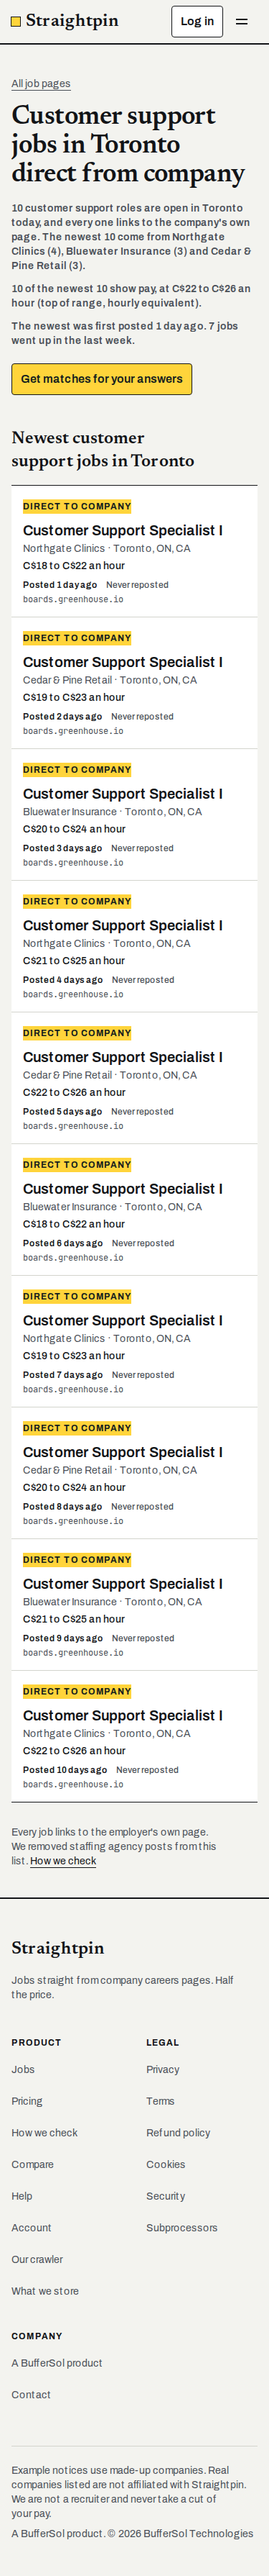
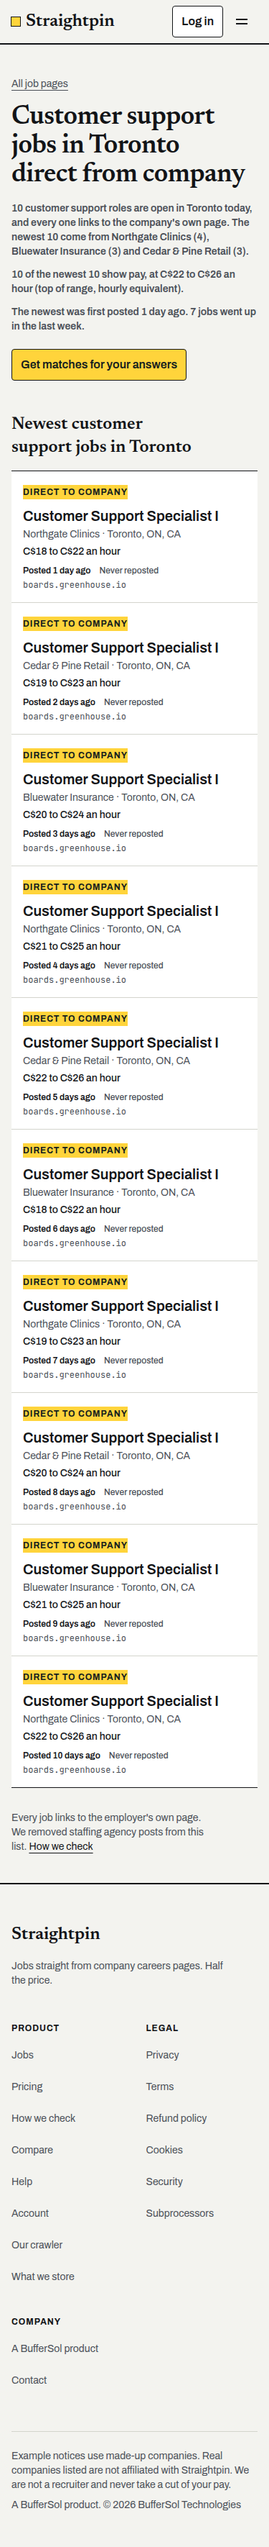
claude-task: #45 (#46)

Changed region(s): [[0.0293, 0.0, 0.9387, 0.9944], [0.2053, 0.8079, 0.264, 0.839]]

diff --git a/tests/e2e/qa2/redesign.spec.ts b/tests/e2e/qa2/redesign.spec.ts
@@ -1,0 +1,114 @@
+import { expect, test, type Page } from "@playwright/test";
+import { firstJobId, signInViaUi } from "../qa/helpers";
+
+// Post-redesign regression pass: light only, newsprint/ink/yellow palette, Newsreader + Archivo, square surfaces.
+const PUBLIC = ["/", "/pricing", "/compare/directroles", "/how-we-check", "/docs", "/legal/privacy", "/legal/terms", "/legal/refunds", "/legal/cookies", "/bot", "/about/data", "/sign-in", "/quiz", "/jobs", "/does-not-exist", "/paywall", "/problem", "/matches?field=support&country=US&remote=any&payFloor=0&level=any&schedule=any"];
+const SIGNED = ["/app", "/app/billing", "/app/settings/profile", "/app/settings/security", "/account", "/saved", "/alerts", "/alerts/manage"];
+const VIEWPORTS = [{ width: 375, height: 812 }, { width: 1440, height: 900 }];
+
+/** Runs in the page: returns human readable problems for the current screen. */
+async function styleAudit(page: Page) {
+  return page.evaluate(() => {
+    const out: string[] = [];
+    const parse = (c: string) => { const m = c.match(/rgba?\(([^)]+)\)/); if (!m) return null; const [r, g, b, a = 1] = m[1]!.split(/[ ,/]+/).filter(Boolean).map(Number); return { r: r!, g: g!, b: b!, a }; };
+    const hue = (c: { r: number; g: number; b: number }) => { const r = c.r / 255, g = c.g / 255, b = c.b / 255; const mx = Math.max(r, g, b), mn = Math.min(r, g, b); const d = mx - mn; if (!d) return { h: 0, s: 0, l: (mx + mn) / 2 }; const l = (mx + mn) / 2; const s = d / (1 - Math.abs(2 * l - 1)); let h = mx === r ? ((g - b) / d) % 6 : mx === g ? (b - r) / d + 2 : (r - g) / d + 4; h = (h * 60 + 360) % 360; return { h, s, l }; };
+    const lum = (c: { r: number; g: number; b: number }) => { const f = (v: number) => { v /= 255; return v <= 0.03928 ? v / 12.92 : ((v + 0.055) / 1.055) ** 2.4; }; return 0.2126 * f(c.r) + 0.7152 * f(c.g) + 0.0722 * f(c.b); };
+    const bgOf = (el: Element) => { for (let e: Element | null = el; e; e = e.parentElement) { const cs = getComputedStyle(e); if (cs.backgroundImage !== "none") return null; const c = parse(cs.backgroundColor); if (c && c.a > 0.95) return c; } return { r: 243, g: 243, b: 239, a: 1 }; };
+    const where = (el: Element) => `${el.tagName.toLowerCase()}${el.id ? "#" + el.id : ""}.${String(el.getAttribute("class") ?? "").split(" ").slice(0, 2).join(".")} "${(el.textContent || "").trim().slice(0, 24)}"`;
+    const html = getComputedStyle(document.documentElement);
+    if (html.colorScheme.includes("dark")) out.push("color-scheme includes dark");
+    if (document.documentElement.hasAttribute("data-theme") || document.documentElement.classList.contains("dark")) out.push("dark theme attribute on <html>");
+    const seen = new Set<string>();
+    for (const el of Array.from(document.querySelectorAll<HTMLElement>("body *"))) {
+      const cs = getComputedStyle(el);
+      if (cs.display === "none" || cs.visibility === "hidden") continue;
+      const r = el.getBoundingClientRect();
+      const ff = cs.fontFamily.toLowerCase();
+      if (/bricolage|public sans|caveat/.test(ff)) out.push(`old font ${ff.slice(0, 40)}: ${where(el)}`);
+      if (/gradient/.test(cs.backgroundImage)) out.push(`gradient: ${where(el)}`);
+      for (const prop of ["color", "backgroundColor", "borderTopColor", "outlineColor"] as const) {
+        const c = parse(cs[prop]); if (!c || c.a < 0.2) continue;
+        if (prop === "borderTopColor" && cs.borderTopWidth === "0px") continue;
+        if (prop === "outlineColor" && cs.outlineStyle === "none") continue;
+        const k = hue(c);
+        if (k.s > 0.25 && k.l > 0.15 && k.l < 0.95) {
+          const name = k.h >= 230 && k.h < 300 ? "indigo/purple" : k.h < 25 || k.h >= 345 ? (k.l > 0.35 && k.s < 0.8 && prop !== "color" ? "clay/red" : "") : "";
+          if (name && !/danger|error/.test(String(el.className))) { const key = `${prop} ${name} ${cs[prop]}`; if (!seen.has(key)) { seen.add(key); out.push(`${prop} ${name} ${cs[prop]}: ${where(el)}`); } }
+        }
+        if (prop === "backgroundColor" && c.r >= 244 && c.r <= 248 && c.g >= 238 && c.g <= 244 && c.b >= 228 && c.b <= 236) out.push(`cream background ${cs[prop]}: ${where(el)}`);
+      }
+      // pills and soft rounded surfaces (square 0 / 4px system)
+      const rad = parseFloat(cs.borderTopLeftRadius);
+      if (rad > 4.5 && r.width > 16 && r.height > 16 && !(rad >= Math.min(r.width, r.height) / 2 - 0.5 && Math.abs(r.width - r.height) < 2) && !el.closest("svg")) out.push(`radius ${rad}px: ${where(el)}`);
+      // text contrast
+      const own = Array.from(el.childNodes).some((n) => n.nodeType === 3 && (n.textContent || "").trim().length > 1);
+      if (own && r.width > 0 && r.height > 0 && !el.closest("[aria-hidden=true], .sr-only") && cs.opacity === "1") {
+        const fg = parse(cs.color), bg = bgOf(el);
+        if (fg && bg && fg.a > 0.95) {
+          const L1 = lum(fg), L2 = lum(bg); const ratio = (Math.max(L1, L2) + 0.05) / (Math.min(L1, L2) + 0.05);
+          const large = parseFloat(cs.fontSize) >= 24 || (parseFloat(cs.fontSize) >= 18.66 && parseInt(cs.fontWeight) >= 700);
+          const dis = (el as HTMLButtonElement).disabled || el.closest("[disabled], [aria-disabled=true]");
+          if (!dis && ratio < (large ? 3 : 4.5)) out.push(`contrast ${ratio.toFixed(2)}: ${where(el)}`);
+        }
+      }
+      // cut off text (not an intentional truncate)
+      if (cs.overflow !== "visible" && cs.textOverflow !== "ellipsis" && !el.matches("input, textarea, select, svg, [class*=sr-only]") && el.scrollWidth > el.clientWidth + 2 && cs.overflowX === "hidden" && (el.textContent || "").trim()) out.push(`text clipped: ${where(el)}`);
+      // overlapping siblings with text (rough)
+    }
+    return [...new Set(out)];
+  });
+}
+
+for (const vp of VIEWPORTS) {
+  test(`redesign audit, signed out, ${vp.width}px: palette, fonts, radius, contrast, no dark mode, no clipped text`, async ({ page, request }) => {
+    await page.setViewportSize(vp);
+    await request.post("/api/dev/seed-jobs");
+    const problems: string[] = [];
+    for (const p of PUBLIC) {
+      await page.goto(p); await page.waitForLoadState("load"); await page.waitForTimeout(300);
+      for (const x of await styleAudit(page)) problems.push(`${p}: ${x}`);
+    }
+    expect(problems).toEqual([]);
+  });
+
+  test(`redesign audit, signed in, ${vp.width}px`, async ({ page, request }) => {
+    await page.setViewportSize(vp);
+    await signInViaUi(page, request);
+    await firstJobId(page, request);
+    const problems: string[] = [];
+    for (const p of SIGNED) {
+      await page.goto(p); await page.waitForLoadState("load"); await page.waitForTimeout(300);
+      for (const x of await styleAudit(page)) problems.push(`${p}: ${x}`);
+    }
+    expect(problems).toEqual([]);
+  });
+}
+
+test("a dark colour scheme preference changes nothing (light only)", async ({ browser }) => {
+  const mk = async (scheme: "dark" | "light") => { const ctx = await browser.newContext({ colorScheme: scheme }); const pg = await ctx.newPage(); await pg.goto("/"); const v = await pg.evaluate(() => [getComputedStyle(document.body).backgroundColor, getComputedStyle(document.body).color, getComputedStyle(document.documentElement).colorScheme, document.querySelector('meta[name="color-scheme"]')?.getAttribute("content") ?? "", Array.from(document.querySelectorAll('meta[name="theme-color"]')).map((m) => m.getAttribute("content") + "|" + (m.getAttribute("media") ?? "")).join(",")]); await ctx.close(); return v; };
+  expect(await mk("dark")).toEqual(await mk("light"));
+});
+
+test("keyboard: every focusable element shows a visible focus ring (public + app)", async ({ page, request }) => {
+  await page.setViewportSize({ width: 1440, height: 900 });
+  const bad: string[] = [];
+  for (const p of ["/", "/pricing", "/sign-in", "/quiz"]) {
+    await page.goto(p); await page.waitForLoadState("load");
+    for (let i = 0; i < 40; i++) {
+      await page.keyboard.press("Tab");
+      const r = await page.evaluate(() => { const e = document.activeElement as HTMLElement; if (!e || e === document.body) return null; const cs = getComputedStyle(e); const rect = e.getBoundingClientRect(); return { n: `${e.tagName} ${(e.textContent || e.getAttribute("aria-label") || e.getAttribute("name") || "").trim().slice(0, 30)}`, outline: cs.outlineStyle !== "none" && parseFloat(cs.outlineWidth) >= 2, shadow: cs.boxShadow !== "none", vis: rect.width > 0 && rect.height > 0 }; });
+      if (r && r.vis && !r.outline && !r.shadow) bad.push(`${p}: ${r.n}`);
+    }
+  }
+  expect([...new Set(bad)]).toEqual([]);
+  void request;
+});
+
+test("error pages, OG image, icons and legal pages carry the new brand", async ({ request, page }) => {
+  const og = await request.get("/opengraph-image"); expect(og.status()).toBe(200); expect(og.headers()["content-type"]).toContain("image/png");
+  for (const u of ["/icon", "/apple-icon", "/twitter-image"]) expect((await request.get(u)).status(), u).toBe(200);
+  const r = await page.goto("/nope-nope"); expect(r?.status()).toBe(404);
+  await expect(page.getByRole("link", { name: /home|jobs|straightpin/i }).first()).toBeVisible();
+  const css = await (await request.get((await page.locator('link[rel=stylesheet]').first().getAttribute("href"))!)).text();
+  expect(css).not.toMatch(/prefers-color-scheme:\s*dark|Bricolage|Public Sans|Caveat|#b8381c|#f6f1e9/i);
+});

diff --git a/tests/e2e/qa2/interactions.spec.ts b/tests/e2e/qa2/interactions.spec.ts
@@ -1,0 +1,76 @@
+import { expect, test } from "@playwright/test";
+import { product } from "../../../src/config/product";
+import { firstJobId, signInViaUi } from "../qa/helpers";
+
+const allPrices = product.plans.flatMap((p) => p.prices.map((x) => x.usd / 100));
+const fmt = (n: number) => `$${Number.isInteger(n) ? n : n.toFixed(2)}`;
+
+test("pricing and landing print only prices that exist in product.ts (or a dated competitor price from the brief)", async ({ page }) => {
+  for (const path of ["/", "/pricing"]) {
+    await page.goto(path);
+    const text = await page.locator("main").innerText();
+    const shown = [...text.matchAll(/\$(\d{1,3}(?:,\d{3})*(?:\.\d{2})?)/g)].map((m) => Number(m[1]!.replace(",", "")));
+    // pay in the labelled sample listings ("$19 to $24 an hour") is not a price of ours
+    const pay = new Set([...text.matchAll(/C?\$(\d+(?:\.\d+)?)(?: to C?\$(\d+(?:\.\d+)?))? (?:an|per) hour/g)].flatMap((m) => [Number(m[1]), Number(m[2])]));
+    const stray = shown.filter((n) => !allPrices.includes(n) && !pay.has(n) && ![21, 10.5, 47].includes(n) && n !== 0);
+    expect(stray, `${path} shows a price that is not in product.ts or the brief`).toEqual([]);
+  }
+  await page.goto("/pricing");
+  const text = await page.locator("main").innerText();
+  for (const p of product.plans.filter((x) => x.onSale && x.prices.length)) {
+    expect(text, `/pricing lists ${p.name}`).toContain(p.name);
+    expect(text, `/pricing shows ${p.name} price`).toContain(fmt(p.prices[0]!.usd / 100));
+  }
+});
+
+test("no invented proof: no star ratings, user counts, logo walls or testimonials on public pages", async ({ page }) => {
+  for (const path of ["/", "/pricing", "/compare/directroles", "/how-we-check"]) {
+    await page.goto(path);
+    const text = (await page.locator("main").innerText()).toLowerCase();
+    expect(text, path).not.toMatch(/★|rated \d|trusted by|\d[\d,]* (happy )?(users|customers|members|job seekers)|as seen (on|in)|testimonial/);
+  }
+});
+
+for (const w of [320, 768, 1024]) {
+  test(`no horizontal scroll at ${w}px on the main screens`, async ({ page, request }) => {
+    await page.setViewportSize({ width: w, height: 800 });
+    await request.post("/api/dev/seed-jobs");
+    const bad: string[] = [];
+    for (const p of ["/", "/pricing", "/compare/directroles", "/how-we-check", "/jobs", "/quiz", "/sign-in", "/docs", "/legal/terms", "/matches?field=support&country=US&remote=any&payFloor=0&level=any&schedule=any"]) {
+      await page.goto(p);
+      await page.waitForLoadState("load");
+      if (await page.evaluate(() => document.documentElement.scrollWidth > window.innerWidth)) bad.push(p);
+    }
+    expect(bad).toEqual([]);
+  });
+}
+
+test("sign out lands on a public page and /app asks to sign in again; billing return pages stay calm", async ({ page, request }) => {
+  await signInViaUi(page, request);
+  await page.goto("/app");
+  await page.getByRole("button", { name: /sign out/i }).first().click();
+  await page.waitForURL((u) => !u.pathname.startsWith("/app"));
+  await page.goto("/app");
+  await expect(page).toHaveURL(/sign-in/);
+});
+
+test("billing return pages and paywall never 500", async ({ page, request }) => {
+  await signInViaUi(page, request);
+  for (const p of ["/app/billing?checkout=success", "/app/billing?checkout=cancelled", "/paywall", "/paywall?reason=opens"]) {
+    const r = await page.goto(p);
+    expect(r?.status(), p).toBeLessThan(500);
+  }
+});
+
+test("Save and alert buttons do something observable and break no CSP rule", async ({ page, request }) => {
+  const violations: string[] = [];
+  page.on("console", (m) => { if (/Content Security Policy/i.test(m.text())) violations.push(m.text()); });
+  await signInViaUi(page, request);
+  const id = await firstJobId(page, request);
+  await page.goto(`/job/${id}`);
+  await page.getByRole("button", { name: /^save/i }).first().click();
+  await expect(page.getByRole("button", { name: /saved|unsave|remove/i }).first()).toBeVisible();
+  await page.goto("/saved");
+  await expect(page.locator(`a[href="/job/${id}"]`).first()).toBeVisible();
+  expect(violations).toEqual([]);
+});

diff --git a/src/lib/mail/templates.ts b/src/lib/mail/templates.ts
@@ -6,10 +6,10 @@ const esc = (s: string) => s.replace(/[&<>"']/g, (c) => ({ "&": "&amp;", "<": "&
 
 function layout(title: string, bodyHtml: string, footer = `${product.fullName} · ${product.company}`) {
   return `<!doctype html><html lang="en"><head><meta charset="utf-8"><meta name="viewport" content="width=device-width"><title>${esc(title)}</title></head>
-<body style="margin:0;padding:24px;background:#f7f7f7;font-family:ui-sans-serif,system-ui,sans-serif;color:#181818">
-<table role="presentation" width="100%" cellpadding="0" cellspacing="0" style="max-width:520px;margin:0 auto;background:#ffffff;border:1px solid #e2e2e2;border-radius:8px">
+<body style="margin:0;padding:24px;background:#F3F3EF;font-family:ui-sans-serif,system-ui,sans-serif;color:#121417">
+<table role="presentation" width="100%" cellpadding="0" cellspacing="0" style="max-width:520px;margin:0 auto;background:#ffffff;border:1px solid #D3D4CD;border-top:2px solid #121417;border-radius:0">
 <tr><td style="padding:32px">
-<p style="margin:0 0 24px;font-size:14px;font-weight:600">${esc(product.name)}</p>
+<p style="margin:0 0 24px;font-family:Georgia,serif;font-size:18px;font-weight:700">${esc(product.name)}</p>
 ${bodyHtml}
 </td></tr></table>
 <p style="max-width:520px;margin:16px auto 0;font-size:12px;color:#767676">${esc(footer)}</p>
@@ -17,7 +17,7 @@ ${bodyHtml}
 }
 
 const button = (href: string, label: string) =>
-  `<p style="margin:24px 0"><a href="${esc(href)}" style="display:inline-block;padding:12px 16px;background:#181818;color:#ffffff;border-radius:6px;text-decoration:none;font-weight:600">${esc(label)}</a></p>`;
+  `<p style="margin:24px 0"><a href="${esc(href)}" style="display:inline-block;padding:12px 16px;background:#121417;color:#ffffff;border-radius:4px;text-decoration:none;font-weight:600">${esc(label)}</a></p>`;
 
 export function magicLinkEmail(url: string) {
   // Not "Sign in to <name>": that exact subject never reached the inbox in testing (any other subject did).
@@ -80,7 +80,7 @@ export function digestEmail(opts: { kind: "digest" | "alerts"; total: number; jo
     `Unsubscribe in one click: ${opts.unsubscribeUrl}`,
   ].filter((l, i, a) => l !== "" || a[i - 1] !== "").join("\n");
   const items = opts.jobs
-    .map((j) => `<li style="margin:0 0 16px"><a href="${esc(j.url)}" style="font-weight:600;color:#181818">${esc(j.title)}</a><br><span style="font-size:14px;color:#404040">${esc(j.company)} · ${esc(j.place)}</span><br><span style="font-size:13px;color:#767676">${esc(j.line)}</span></li>`)
+    .map((j) => `<li style="margin:0 0 16px"><a href="${esc(j.url)}" style="font-weight:600;color:#121417">${esc(j.title)}</a><br><span style="font-size:14px;color:#404040">${esc(j.company)} · ${esc(j.place)}</span><br><span style="font-size:13px;color:#767676">${esc(j.line)}</span></li>`)
     .join("");
   const html = layout(
     subject,
@@ -100,7 +100,7 @@ export function refundEmail(opts: { amountText: string; planName: string }) {
   const text = `We refunded ${opts.amountText} for your ${opts.planName} plan and turned the plan off. Refunds usually reach your card in 5 to 10 business days.\n\nYour free account stays open. Questions: ${product.supportEmail}`;
   const html = layout(subject, `<h1 style="margin:0 0 8px;font-size:20px">Refund issued</h1>
 <p style="margin:0 0 12px;font-size:14px;line-height:20px;color:#404040">We refunded ${esc(opts.amountText)} for your ${esc(opts.planName)} plan and turned the plan off. Refunds usually reach your card in 5 to 10 business days.</p>
-<p style="margin:0;font-size:14px;line-height:20px;color:#404040">Your free account stays open. Questions: <a href="mailto:${esc(product.supportEmail)}" style="color:#181818">${esc(product.supportEmail)}</a></p>`);
+<p style="margin:0;font-size:14px;line-height:20px;color:#404040">Your free account stays open. Questions: <a href="mailto:${esc(product.supportEmail)}" style="color:#121417">${esc(product.supportEmail)}</a></p>`);
   return { subject, text, html };
 }
 

diff --git a/tests/e2e/qa/journeys.spec.ts b/tests/e2e/qa/journeys.spec.ts
@@ -1,5 +1,5 @@
 import { expect, test } from "@playwright/test";
-import { firstJobId, ORIGIN, ownIp, signInViaUi, finishOnboarding } from "./helpers";
+import { firstJobId, ORIGIN, ownIp, signInViaUi, finishOnboarding, stubPopup, popupState } from "./helpers";
 
 const MATCHES = "/matches?field=support&country=US&remote=any&payFloor=0&level=any&schedule=any";
 
@@ -13,6 +13,7 @@ test("new visitor: save a job signed out is sent to sign in and returns to the j
 });
 
 test("signed out: Apply sends the visitor to sign in and keeps the job", async ({ page, request }) => {
+  await stubPopup(page);
   const id = await firstJobId(page, request);
   await page.goto(`/job/${id}`);
   await page.getByRole("button", { name: /Apply at company/ }).click();
@@ -57,6 +58,7 @@ test("free user: save, see it in Saved, remove it; the save limit explains itsel
 
 test("free user: the 6th open of the day goes to a paywall that says why", async ({ page, request }) => {
   await page.context().route(/^https:\/\/(?!localhost).*/, (r) => r.fulfill({ status: 200, contentType: "text/html", body: "ok" }));
+  await stubPopup(page);
   await signInViaUi(page, request);
   await request.post("/api/dev/seed-jobs?pages=1");
   await page.goto(MATCHES);
@@ -73,9 +75,8 @@ test("free user: the 6th open of the day goes to a paywall that says why", async
   await expect(page.getByRole("heading", { level: 1 })).toContainText("5 free opens");
   // re-opening a job already opened today is free
   await page.goto(`/job/${more[0]}`);
-  const popup = page.waitForEvent("popup");
   await page.getByRole("button", { name: /Apply at company/ }).click();
-  await popup;
+  await expect.poll(async () => (await popupState(page)).href).toMatch(/^https:\/\//);
 });
 
 test("expired or reused magic link lands on sign-in with a clear notice", async ({ page, request }) => {

diff --git a/src/app/api/jobs/[id]/open/route.ts b/src/app/api/jobs/[id]/open/route.ts
@@ -14,7 +14,7 @@ const redirect = (to: string) => Response.redirect(to.startsWith("http") ? to : 
 const esc = (v: string) => v.replace(/[&<>"']/g, (c) => `&#${c.charCodeAt(0)};`);
 function interstitial(employer: string, url: string) {
   return new Response(
-    `<!doctype html><html lang="en"><meta name="viewport" content="width=device-width"><meta name="robots" content="noindex"><meta name="referrer" content="no-referrer"><title>Apply at ${esc(employer)}</title><body style="font-family:system-ui;max-width:560px;margin:64px auto;padding:0 16px"><main><h1>Your link to ${esc(employer)}</h1><p>This opens the company's own page. It is already counted.</p><p><a href="${esc(url)}" rel="noopener noreferrer" style="display:inline-block;min-height:44px;line-height:44px;padding:0 20px;font-weight:600;background:#b3260e;color:#fff;border-radius:8px;text-decoration:none">Apply at ${esc(employer)}</a></p><p><a href="/matches">Back to my matches</a></p></main></body></html>`,
+    `<!doctype html><html lang="en"><meta name="viewport" content="width=device-width"><meta name="robots" content="noindex"><meta name="referrer" content="no-referrer"><title>Apply at ${esc(employer)}</title><body style="font-family:system-ui;max-width:560px;margin:64px auto;padding:0 16px"><main><h1>Your link to ${esc(employer)}</h1><p>This opens the company's own page. It is already counted.</p><p><a href="${esc(url)}" rel="noopener noreferrer" style="display:inline-block;min-height:44px;line-height:44px;padding:0 20px;font-weight:600;background:#121417;color:#fff;border-radius:4px;text-decoration:none">Apply at ${esc(employer)}</a></p><p><a href="/matches">Back to my matches</a></p></main></body></html>`,
     { status: 200, headers: { "content-type": "text/html; charset=utf-8", "cache-control": "no-store" } },
   );
 }

diff --git a/src/lib/jobs/seoPages.ts b/src/lib/jobs/seoPages.ts
@@ -218,15 +218,19 @@ export function pageDescription(field: FieldId, loc: LocationDef, s: PageStats):
 export const pageCanonical = (field: FieldId, loc: Pick<LocationDef, "slug">) => `${product.url}${pagePath(field, loc)}`;
 
 const CACHE_MS = 5 * 60_000;
-let cached: { at: number; db: Db; min: number; value: Promise<PageCombo[]> } | null = null;
+type PagesCache = { at: number; db: Db; min: number; value: Promise<PageCombo[]> } | null;
+// On globalThis so every route bundle in one server instance shares (and can clear) the same cache.
+const holder = globalThis as unknown as { __straightpinPages?: { v: PagesCache } };
+const box = (holder.__straightpinPages ??= { v: null });
 
 /** generatePages with a short per instance cache: /jobs and the sitemap both call it and it costs 8 x 33 count queries. */
 export function generatePagesCached(db: Db, min = MIN_JOBS_FOR_PAGE, now = Date.now()): Promise<PageCombo[]> {
-  if (cached && cached.db === db && cached.min === min && now - cached.at < CACHE_MS) return cached.value;
+  const c = box.v;
+  if (c && c.db === db && c.min === min && now - c.at < CACHE_MS) return c.value;
   const value = generatePages(db, min);
-  cached = { at: now, db, min, value };
-  value.catch(() => { if (cached?.value === value) cached = null; });
+  box.v = { at: now, db, min, value };
+  value.catch(() => { if (box.v?.value === value) box.v = null; });
   return value;
 }
 
-export const clearPagesCache = () => { cached = null; };
+export const clearPagesCache = () => { box.v = null; };

diff --git a/tests/e2e/qa/helpers.ts b/tests/e2e/qa/helpers.ts
@@ -35,3 +35,26 @@ export async function finishOnboarding(page: Page, name = "QA Studio") {
 }
 
 export const ownIp = (page: Page) => page.context().setExtraHTTPHeaders({ "x-forwarded-for": `10.${Math.floor(Math.random() * 250)}.${Math.floor(Math.random() * 250)}.${1 + Math.floor(Math.random() * 250)}` });
+
+/**
+ * Chromium builds used on CI runners can crash the opener tab when a real popup is opened from a click, so the
+ * specs that exercise "Apply at company" swap `window.open` for a stand-in window that records where it is sent.
+ * Read the result with `popupState(page)`.
+ */
+export async function stubPopup(page: Page) {
+  await page.addInitScript(() => {
+    const w = window as unknown as { __popup: { opened: number; closed: boolean; href: string | null } };
+    w.__popup = { opened: 0, closed: false, href: null };
+    window.open = ((url?: string | URL) => {
+      w.__popup.opened++;
+      w.__popup.href = url ? String(url) : null;
+      return {
+        opener: window,
+        get closed() { return w.__popup.closed; },
+        close() { w.__popup.closed = true; },
+        location: { set href(v: string) { w.__popup.href = v; }, get href() { return w.__popup.href ?? "about:blank"; } },
+      };
+    }) as typeof window.open;
+  });
+}
+export const popupState = (page: Page) => page.evaluate(() => (window as unknown as { __popup: { opened: number; closed: boolean; href: string | null } }).__popup);

diff --git a/tests/e2e/qa/apply.spec.ts b/tests/e2e/qa/apply.spec.ts
@@ -1,5 +1,5 @@
 import { expect, test } from "@playwright/test";
-import { firstJobId, signInViaUi } from "./helpers";
+import { firstJobId, popupState, signInViaUi, stubPopup } from "./helpers";
 
 // Regression: "Apply at company" was a form POST answered with a 303 to the employer's site, which the
 // CSP `form-action 'self'` blocks, so the button did nothing for a signed-in user.
@@ -7,12 +7,11 @@ test("Apply at company opens the employer page for a signed-in user, and counts 
   const violations: string[] = [];
   page.on("console", (m) => { if (/Content Security Policy|form-action/i.test(m.text())) violations.push(m.text()); });
   await context.route(/^https:\/\/(?!localhost).*/, (r) => r.fulfill({ status: 200, contentType: "text/html", body: "<title>Employer</title>employer page" }));
+  await stubPopup(page);
   await signInViaUi(page, request);
   const id = await firstJobId(page, request);
   await page.goto(`/job/${id}`);
-  const popup = page.waitForEvent("popup");
   await page.getByRole("button", { name: /Apply at company/ }).click();
-  const p = await popup;
-  await expect.poll(() => p.url(), { timeout: 10_000 }).toMatch(/^https:\/\/.+\/jobs\//);
+  await expect.poll(async () => (await popupState(page)).href, { timeout: 10_000 }).toMatch(/^https:\/\/.+\/jobs\//);
   expect(violations).toEqual([]);
 });

diff --git a/src/app/app/page.tsx b/src/app/app/page.tsx
@@ -51,9 +51,9 @@ export default async function OverviewPage() {
         <Panel title="Get started" description={`${steps.filter((x) => x.done).length} of ${steps.length} done. It takes about two minutes.`}>
           <ol className="flex flex-col divide-y divide-border border-y border-border">
             {steps.map((x) => (
-              <li key={x.id} className="flex min-h-11 items-center gap-3 py-2">
+              <li key={x.id} className="flex min-h-11 items-center gap-3">
                 <span aria-hidden className={x.done ? "text-success" : "text-text-subtle"}>{x.done ? "✓" : "○"}</span>
-                {x.done ? <span className="body-6 text-text-subtle line-through">{x.label}<span className="sr-only"> (done)</span></span> : <Link href={x.href} className="body-6 text-action underline underline-offset-4">{x.label}</Link>}
+                {x.done ? <span className="body-6 text-text-subtle line-through">{x.label}<span className="sr-only"> (done)</span></span> : <Link href={x.href} className="body-6 flex min-h-11 flex-1 items-center text-action underline underline-offset-4">{x.label}</Link>}
               </li>
             ))}
           </ol>

diff --git a/src/app/api/mail/unsubscribe/route.ts b/src/app/api/mail/unsubscribe/route.ts
@@ -54,7 +54,7 @@ export async function GET(req: Request) {
   const p = valid(url);
   if (!p || !safeEqual(p.t, await unsubscribeToken(p.e, p.s))) return page(BAD, 400);
   return page(
-    `<h1>Unsubscribe from these emails?</h1><p>${esc(p.e)} will stop getting them. Sign-in emails still arrive.</p><form method="post" action="${esc(url.pathname + url.search)}"><input type="hidden" name="confirm" value="1"><button type="submit" style="min-height:44px;padding:0 20px;font:inherit;font-weight:600;background:#b3260e;color:#fff;border:0;border-radius:8px;cursor:pointer">Yes, unsubscribe</button></form>`,
+    `<h1>Unsubscribe from these emails?</h1><p>${esc(p.e)} will stop getting them. Sign-in emails still arrive.</p><form method="post" action="${esc(url.pathname + url.search)}"><input type="hidden" name="confirm" value="1"><button type="submit" style="min-height:44px;padding:0 20px;font:inherit;font-weight:600;background:#121417;color:#fff;border:0;border-radius:4px;cursor:pointer">Yes, unsubscribe</button></form>`,
     200,
   );
 }

diff --git a/src/components/ui/button.tsx b/src/components/ui/button.tsx
@@ -7,7 +7,7 @@ type Variant = "primary" | "secondary" | "tertiary" | "danger";
 type Size = "sm" | "md" | "lg";
 
 const base =
-  "inline-flex items-center justify-center gap-2 rounded-md whitespace-nowrap select-none transition-[background-color,color,border-color,opacity,transform] duration-300 ease-out-kit active:scale-[0.98] disabled:pointer-events-none disabled:opacity-50 aria-busy:cursor-progress focus-visible:focus-ring";
+  "inline-flex items-center justify-center gap-2 rounded-md max-w-full text-center whitespace-normal min-[400px]:whitespace-nowrap select-none transition-[background-color,color,border-color,opacity,transform] duration-300 ease-out-kit active:scale-[0.98] disabled:pointer-events-none disabled:opacity-50 aria-busy:cursor-progress focus-visible:focus-ring";
 const variants: Record<Variant, string> = {
   // Primary = the Help Wanted sign: signal yellow, ink text, ink edge (docs/design-brief.md §5).
   primary: "border border-rule bg-highlight text-on-highlight hover:bg-signal-hover",

diff --git a/src/components/marketing/compare-table.tsx b/src/components/marketing/compare-table.tsx
@@ -20,7 +20,7 @@ export function CompareTable({
   caption, rowHeader = "Feature", columns, rows, highlightColumn,
 }: { caption: ReactNode; rowHeader?: string; columns: string[]; rows: CompareRow[]; highlightColumn?: number }) {
   return (
-    <div role="region" aria-label="Comparison table, scrolls sideways on small screens" tabIndex={0} className="overflow-x-auto border-y-2 border-rule focus-visible:focus-ring">
+    <div role="region" aria-label="Comparison table, scrolls sideways on small screens" tabIndex={0} className="relative overflow-x-auto border-y-2 border-rule focus-visible:focus-ring">
       <table className="w-full min-w-lg border-collapse text-left">
         <caption className="sr-only">{caption}</caption>
         <thead>
